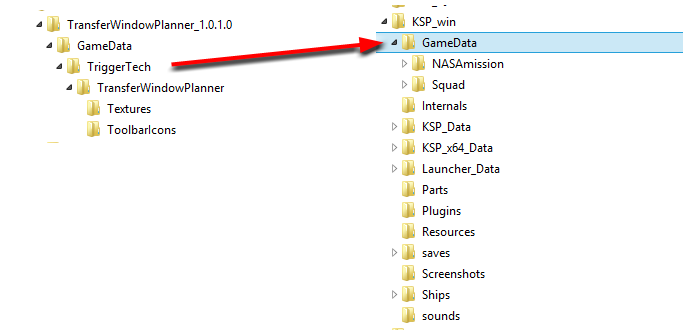
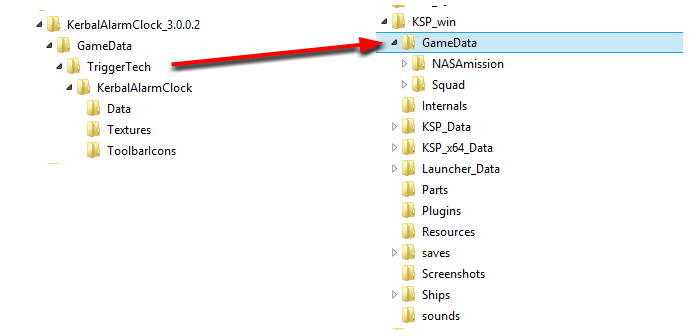
Added Install notes and v3.0.0.3-beta is ready

Changed region(s): [[0.1219, 0.2381, 0.3353, 0.4762], [0.0914, 0.0595, 0.3353, 0.0893]]

diff --git a/install.html b/install.html
@@ -9,7 +9,7 @@
     <meta name="author" content="">
     <link rel="icon" href="favicon.ico">
 
-    <title>Transfer Window Planner by TriggerAu</title>
+    <title>Kerbal Alarm Clock by TriggerAu</title>
     <!-- Bootstrap -->
     <link href="css/bootstrap.min.css" rel="stylesheet" />
     <link href="css/bootstrap-theme.min.css" rel="stylesheet" />
@@ -64,9 +64,9 @@
     </div>
     <!--Version Banner-->
     <div class="version-banner">
-        Current Version: 
+        Current Version:
         <span id="lblVersionQuery">Querying...</span>
-        <span id="lblVersionResult" style="display:none;"><a href="https://github.com/TriggerAu/TransferWindowPlanner/releases/latest" style="color:white;" ><span id="lblVersionText"></span></a> </span>
+        <span id="lblVersionResult" style="display:none;"><a href="https://github.com/TriggerAu/KerbalAlarmClock/releases/latest" style="color:white;"><span id="lblVersionText"></span></a> </span>
         <span id="lblVersionError" style="display:none;color:#ff8a37;">Unknown</span>
     </div>
 
@@ -74,50 +74,112 @@
         <div class="page-header">
             <h2>Installation Instructions</h2>
         </div>
-        
-        <h3>Download</h3>
-        You can download the the Transfer Window Planner from:
-        <ul>
-            <li>From <a href="http://kerbal.curseforge.com/ksp-mods/224116-transfer-window-planner/files" target="_blank">CurseForge</a></li>
-            <li>From <a href="https://github.com/TriggerAu/TransferWindowPlanner/releases" target="_blank">GitHub</a></li>
-        </ul>
-        
-    </div>
-    <div class="ShadedBlock">
-        <div class="container" style="padding-bottom:15px;">
-            <h3>Installation</h3>
-            <h4>1. Extracting the Zip file to a temporary location</h4>
-            <p>Take the downloaded file and extract it to a temporary location. You will end up with a folder that looks like the below:</p>
-            <img src="images/Install1.png" alt="Source Zip" style="box-shadow: 5px 5px 10px #777;" />
-        </div>
-    </div>
-    <div class="container" style="padding-bottom:15px;">
-        <h4>2. Finding the KSP Main Folder</h4>
-        <p>The first step to installing an addon is to locate the KSP folder in your computer. This is where KSP keeps all of its files, including your game saves and screenshots. The KSP folder is located where you unzipped it when you first downloaded the game. The folder looks like the below:</p>
-        <img src="images/Install2.png" alt="Source Zip" style="box-shadow: 5px 5px 10px #777;" />
-    </div>
-    <div class="ShadedBlock">
-        <div class="container" style="padding-bottom:15px;">
-            <h4>3. Installing the Mod</h4>
-            <p>Simply copy the files from the GameData source into the GameData folder in the KSP Game folder. As shown below:</p>
-            <img src="images/Install3.png" alt="Source Zip" style="box-shadow: 5px 5px 10px #777;" />
-        </div>
-    </div>
-    <div class="container" style="padding-bottom:15px;">
-        <h4>4. All Done!!</h4>
-        <p>Your Game folder will now look like this. And you should be able to start KSP and use the Plugin</p>
-        <img src="images/Install4.png" alt="Source Zip" style="box-shadow: 5px 5px 10px #777;" />
-    </div>
 
+        <h3>Download</h3>
+        You can download the the Kerbal Alarm Clock from <i>(in alphabetical order)</i>:
+        <ul>
+            <li>From <a href="http://kerbal.curseforge.com/ksp-mods/220289-kerbal-alarm-clock/files" target="_blank">CurseForge</a></li>
+            <li>From <a href="https://kerbalstuff.com/mod/231/Kerbal%20Alarm%20Clock/download" target="_blank">KerbalStuff</a></li>
+            <li>From <a href="https://github.com/TriggerAu/KerbalAlarmClock/releases" target="_blank">GitHub</a></li>
+        </ul>
+
+    </div>
+    <section id="Installation">
+        <div class="container">
+            <h3>Upgrading from v2 to v3 <span class="label label-danger">Important</span></h3>
+            <p>
+                There are two things that are important to note when upgrading from v2 to v3
+                <ol>
+                    <li>You cannot have both v2 and v3 installed at the same time</li>
+                    <li>It is important to note that v3 of KAC stores the alarms in the save file in a scenario module - no longer in its own Alarms-xxxxx.txt file</li>
+                </ol>
+            </p>
+            <p>If you wish to import your Alarms from v2 then you will need to save the alarms file before removing v2. There is a tool provide in v3 and you will find instructions below under <a href="#AlarmImport">Importing v2 Alarms</a></p>
+        </div>
+        <div class="ShadedBlock">
+            <div class="container" style="padding-bottom:15px;">
+
+                <h3>Installation</h3>
+                <p style="font-weight:bold; color:red;">If you are upgrading from v2 please ensure you read the <a href="#AlarmImport">Importing v2 Alarms Instructions</a> before proceeding so you dont overwrite your alarms file</p>
+                <h4>1. Extracting the Zip file to a temporary location</h4>
+                <p>Take the downloaded file and extract it to a temporary location. You will end up with a folder that looks like the below:</p>
+                <img src="images/Install1.png" alt="Source Zip" style="box-shadow: 5px 5px 10px #777;" />
+            </div>
+        </div>
+        <div class="container" style="padding-bottom:15px;">
+            <h4>2. Finding the KSP Main Folder</h4>
+            <p>The first step to installing an addon is to locate the KSP folder in your computer. This is where KSP keeps all of its files, including your game saves and screenshots. The KSP folder is located where you unzipped it when you first downloaded the game. The folder looks like the below:</p>
+            <img src="images/Install2.png" alt="Source Zip" style="box-shadow: 5px 5px 10px #777;" />
+        </div>
+        <div class="ShadedBlock">
+            <div class="container" style="padding-bottom:15px;">
+                <h4>3. Installing the Mod</h4>
+                <p>Simply copy the files from the GameData source into the GameData folder in the KSP Game folder. As shown below:</p>
+                <img src="images/Install3.png" alt="Source Zip" style="box-shadow: 5px 5px 10px #777;" />
+            </div>
+        </div>
+        <div class="container" style="padding-bottom:15px;">
+            <h4>4. All Done!!</h4>
+            <p>Your Game folder will now look like this. And you should be able to start KSP and use the Plugin</p>
+            <img src="images/Install4.png" alt="Source Zip" style="box-shadow: 5px 5px 10px #777;" />
+        </div>
+    </section>
+
+    <section id="AlarmImport">
+        <div class="ShadedBlock">
+            <div class="container" style="padding-bottom:15px;">
+                <h3>Importing v2 Alarms into v3</h3>
+                <h4>1. Save your old Alarms files</h4>
+                <p>The path they shoudl be in is below, but the easiest way to find these is to search the TriggerTech folder for "Alarms*", and you can then make a copy of these. </p>
+                <pre>&lt;KSP_OS&gt;\GameData\TriggerTech\KerbalAlarmClock\PluginData\KerbalAlarmClock</pre>
+                <p>Copy these somewhere else for now</p>
+            </div>
+        </div>
+        <div class="container" style="padding-bottom:15px;">
+            <h4>2. Remove v2 and Install v3</h4>
+            <p>Delete the existing KerbalAlarmClock Folder in TriggerTech and install v3 - The Steps are above under <a href="#Installation">Installation Instructions</a></p>
+        </div>
+        <div class="ShadedBlock">
+            <div class="container" style="padding-bottom:15px;">
+                <h4>3. Restore your old Alarms files</h4>
+                <p>Place your old alarm files inside the TriggerTech Folder - I just put em in the root to save time</p>
+                <img src="images/ImportV2Alarms0.png" alt="Alarms Files" style="box-shadow: 5px 5px 10px #777;" />
+            </div>
+        </div>
+        <div class="container" style="padding-bottom:15px;">
+            <h4>4. go to the Import Tool</h4>
+            <p>In KSP, load your save file and open the Alarm Clock. Go to Settings and the About tab where you will find an Open Import Tool button</p>
+            <img src="images/ImportV2Alarms1.png" alt="Settings Shot" style="box-shadow: 5px 5px 10px #777;" />
+        </div><div class="ShadedBlock">
+            <div class="container" style="padding-bottom:15px;">
+                <h4>5. Read the Old Alarms File</h4>
+                <p>You shoudl see the name of your save file listed and a Read File button</p>
+                <img src="images/ImportV2Alarms2.png" alt="Initial Screen" style="box-shadow: 5px 5px 10px #777;" />
+            </div>
+        </div>
+        <div class="container" style="padding-bottom:15px;">
+            <h4>5. Review the Alarms and Add/Replace the existing ones</h4>
+            <p>You should see a list of all the alarms that were in the save file before and if you hover over one a tooltip shows the notes.</p>
+            <p>Click on the Add to Alarms button to add to any alarms that you may have made before starting this, or Replace Alarms to replace whats there.</p>
+            <img src="images/ImportV2Alarms3.png" alt="List of alarms from file" style="box-shadow: 5px 5px 10px #777;" />
+        </div>
+        </div><div class="ShadedBlock">
+            <div class="container" style="padding-bottom:15px;">
+                <h4>6. All Done</h4>
+                <p>You should now see the alarms in the state you were after. Dont forget that these are saved in the save file now</p>
+                <img src="images/ImportV2Alarms4.png" alt="All Done" style="box-shadow: 5px 5px 10px #777;" />
+            </div>
+        </div>
+    </section>
 
 
     <!-- Begin footer content -->
     <div class="navbar navbar-default navbar-fixed-bottom">
         <p class="navbar-text navbar-left" style="padding-left: 20px;">&copy; 2014 - TriggerTech</p>
         <p class="navbar-text navbar-right" style="padding-right: 20px;">
-            <a href="http://forum.kerbalspaceprogram.com/threads/93115-Transfer-Window-Planner" target="_blank"><i class="fa fa-rocket"></i>Forum Thread</a>
-            <a href="https://github.com/TriggerAu/TransferWindowPlanner/releases" target="_blank"><i class="fa fa-download"></i>Downloads</a>
-            <a href="https://github.com/TriggerAu/TransferWindowPlanner"><i class="fa fa-github"></i>Source on Github</a>
+            <a href="http://forum.kerbalspaceprogram.com/threads/24786-Kerbal-Alarm-Clock" target="_blank"><i class="fa fa-rocket"></i>Forum Thread</a>
+            <a href="https://github.com/TriggerAu/KerbalAlarmClock/releases" target="_blank"><i class="fa fa-download"></i>Downloads</a>
+            <a href="https://github.com/TriggerAu/KerbalAlarmClock"><i class="fa fa-github"></i>Source on Github</a>
         </p>
     </div>
 

diff --git a/index.html b/index.html
@@ -76,9 +76,9 @@
             <h2>Kerbal Alarm Clock <small> for Kerbal Space Program</small></h2>
             <h4>An in-game implementation of Alexmun's Launch Window Planner</h4>
         </div>
-        <p>The Transfer Window Planner is a plugin for Kerbal Space Program that brings some functionality from some great web apps in-game. I wrapped my brain around some orbital maths and Alexmun provided some of the important code to help me show data visualisations of Delta-V required to transfer between planetary bodies in KSP</p>
+        <p>The Kerbal Alarm Clock is a plugin for Kerbal Space Program that brings some functionality from some great web apps in-game. I wrapped my brain around some orbital maths and Alexmun provided some of the important code to help me show data visualisations of Delta-V required to transfer between planetary bodies in KSP</p>
 
-        <p>Here you will find information and pictures about the Transfer Window Planner plugin.</p>
+        <p>Here you will find information and pictures about the Kerbal Alarm Clock plugin.</p>
     </div>
 
 
@@ -89,7 +89,7 @@
             <div class="flexslider" style="margin-bottom:20px;">
                 <ul class="slides">
                     <li>
-                        <a href="images/TWPMainWindow.png" data-lightbox="TWPImages" data-title="Transfer Window Planner Main Window Example">
+                        <a href="images/TWPMainWindow.png" data-lightbox="TWPImages" data-title="Kerbal Alarm Clock Main Window Example">
                             <img src="images/ThumbTWPMainWindow.png" />
                         </a>
                     </li>
@@ -109,7 +109,7 @@
                         </a>
                     </li>
                     <!--<li>
-                        <a href="images/TWPScreen4.png" data-lightbox="TWPImages" data-title="Transfer Window Planner Main Window Example">
+                        <a href="images/TWPScreen4.png" data-lightbox="TWPImages" data-title="Kerbal Alarm Clock Main Window Example">
                             <img src="images/ThumbTWPScreen4.png" />
                         </a>
                     </li>-->
@@ -158,7 +158,7 @@
     <h4>Links</h4>
     <ul class="list-links">
         <li>
-            <a href="http://forum.kerbalspaceprogram.com/threads/24786-Kerbal-Alarm-Clock" target="_blank"><i class="fa fa-rocket"></i>Transfer Window Planner Forum Thread</a>
+            <a href="http://forum.kerbalspaceprogram.com/threads/24786-Kerbal-Alarm-Clock" target="_blank"><i class="fa fa-rocket"></i>Kerbal Alarm Clock Forum Thread</a>
         </li>
         <li><a href="https://github.com/TriggerAu/KerbalAlarmClock/releases" target="_blank"><i class="fa fa-download"></i>Downloads on Github</a></li>
         <li><a href="http://kerbal.curseforge.com/ksp-mods/220289-kerbal-alarm-clock/files" target="_blank"><i class="fa fa-download"></i>Downloads on CurseForge</a></li>
@@ -171,9 +171,9 @@
         <p class="navbar-text navbar-left" style="padding-left: 20px;">&copy; 2014 - TriggerTech - 
             <img src="images/DT-OSILogo16.png" alt="OSI" /> MIT License</p>
         <p class="navbar-text navbar-right" style="padding-right: 20px;">
-            <a href="http://forum.kerbalspaceprogram.com/threads/93115-Transfer-Window-Planner" target="_blank"><i class="fa fa-rocket"></i>Forum Thread</a>
-            <a href="https://github.com/TriggerAu/TransferWindowPlanner/releases" target="_blank"><i class="fa fa-download"></i>Downloads</a>
-            <a href="https://github.com/TriggerAu/TransferWindowPlanner"><i class="fa fa-github"></i>Source on Github</a>
+            <a href="http://forum.kerbalspaceprogram.com/threads/24786-Kerbal-Alarm-Clock" target="_blank"><i class="fa fa-rocket"></i>Forum Thread</a>
+            <a href="https://github.com/TriggerAu/KerbalAlarmClock/releases" target="_blank"><i class="fa fa-download"></i>Downloads</a>
+            <a href="https://github.com/TriggerAu/KerbalAlarmClock"><i class="fa fa-github"></i>Source on Github</a>
         </p>
     </div>
 

diff --git a/about.html b/about.html
@@ -9,7 +9,7 @@
     <meta name="author" content="">
     <link rel="icon" href="favicon.ico">
 
-    <title>Transfer Window Planner by TriggerAu</title>
+    <title>Kerbal Alarm Clock by TriggerAu</title>
     <!-- Bootstrap -->
     <link href="css/bootstrap.min.css" rel="stylesheet" />
     <link href="css/bootstrap-theme.min.css" rel="stylesheet" />
@@ -71,18 +71,18 @@
     <div class="version-banner">
         Current Version:
         <span id="lblVersionQuery">Querying...</span>
-        <span id="lblVersionResult" style="display:none;"><a href="https://github.com/TriggerAu/TransferWindowPlanner/releases/latest" style="color:white;"><span id="lblVersionText"></span></a> </span>
+        <span id="lblVersionResult" style="display:none;"><a href="https://github.com/TriggerAu/KerbalAlarmClock/releases/latest" style="color:white;"><span id="lblVersionText"></span></a> </span>
         <span id="lblVersionError" style="display:none;color:#ff8a37;">Unknown</span>
     </div>
 
     <div class="container">
         <div class="page-header">
-            <h2>About the Transfer Window Planner</h2>
+            <h2>About the Kerbal Alarm Clock</h2>
         </div>
-        <p>The Transfer Window Planner is a plugin for Kerbal Space Program that brings some functionality from some great web apps in-game.</p>
+        <p>The Kerbal Alarm Clock is a plugin for Kerbal Space Program that brings some functionality from some great web apps in-game.</p>
         <p>It was especially great in this project to see how some very smart people helped out in getting this useful functionality in game</p>
         <h4>Licensing</h4>
-        <img src="images/DT-OSILogo16.png" alt="OSI" /> This work is licensed under an MIT license - <a href="https://github.com/TriggerAu/TransferWindowPlanner/blob/master/LICENSE" target="_blank">included in source code</a>
+        <img src="images/DT-OSILogo16.png" alt="OSI" /> This work is licensed under an MIT license - <a href="https://github.com/TriggerAu/KerbalAlarmClock/blob/master/LICENSE" target="_blank">included in source code</a>
         <h4>Thanks</h4>
         <ul>
             <li>
@@ -103,9 +103,9 @@
     <div class="navbar navbar-default navbar-fixed-bottom">
         <p class="navbar-text navbar-left" style="padding-left: 20px;">&copy; 2014 - TriggerTech</p>
         <p class="navbar-text navbar-right" style="padding-right: 20px;">
-            <a href="http://forum.kerbalspaceprogram.com/threads/93115-Transfer-Window-Planner" target="_blank"><i class="fa fa-rocket"></i>Forum Thread</a>
-            <a href="https://github.com/TriggerAu/TransferWindowPlanner/releases" target="_blank"><i class="fa fa-download"></i>Downloads</a>
-            <a href="https://github.com/TriggerAu/TransferWindowPlanner"><i class="fa fa-github"></i>Source on Github</a>
+            <a href="http://forum.kerbalspaceprogram.com/threads/24786-Kerbal-Alarm-Clock" target="_blank"><i class="fa fa-rocket"></i>Forum Thread</a>
+            <a href="https://github.com/TriggerAu/KerbalAlarmClock/releases" target="_blank"><i class="fa fa-download"></i>Downloads</a>
+            <a href="https://github.com/TriggerAu/KerbalAlarmClock"><i class="fa fa-github"></i>Source on Github</a>
         </p>
     </div>
 

diff --git a/css/site.css b/css/site.css
@@ -3,6 +3,11 @@
     padding-bottom:40px;
 }
 
+section{
+    padding-top: 70px;
+    margin-top: -70px;
+}
+
 .navbar-fixed-top {
     min-height: 79px;
 }
